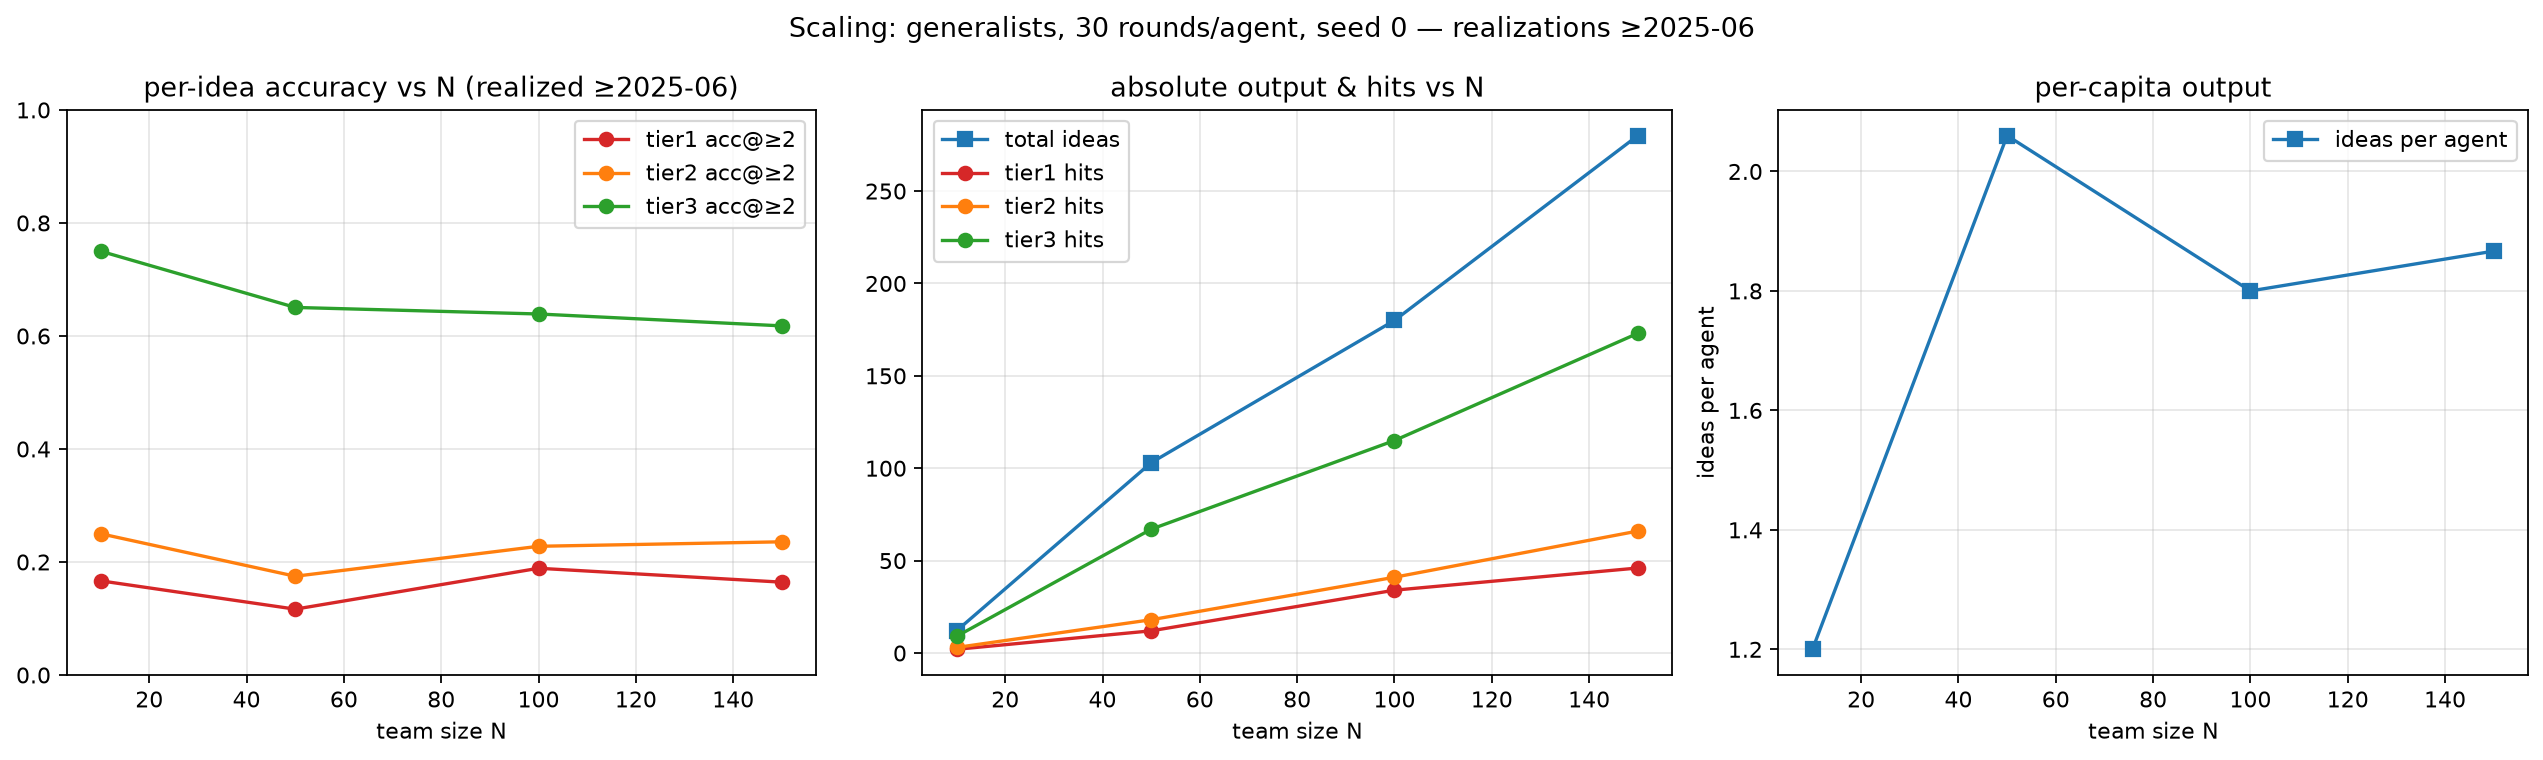
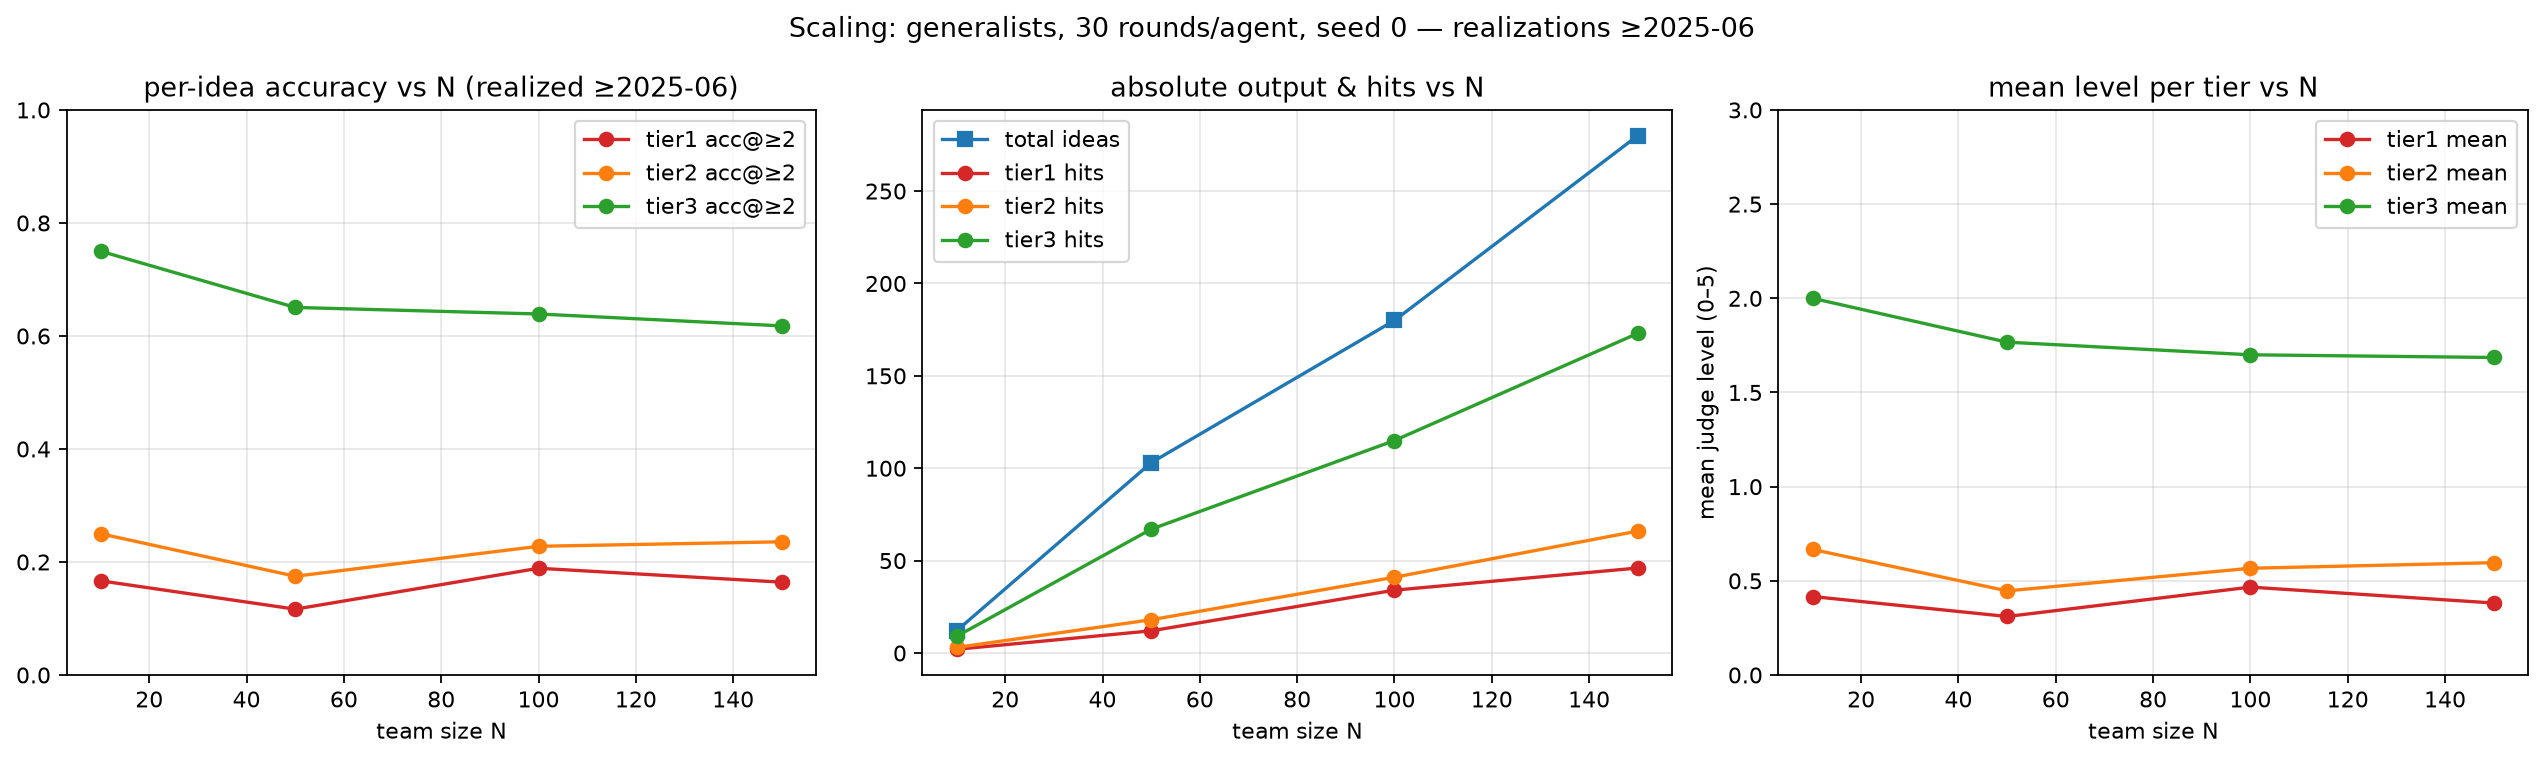
figure: scaling third panel = mean level per tier (replaces per-capita output)

diff --git a/paper/main.tex b/paper/main.tex
@@ -476,8 +476,9 @@ Per-idea accuracy is flat; absolute hits scale with output.}
 \end{center}
 \caption{Team-size scaling at fixed per-agent depth. Left: per-idea
 accuracy is flat in $N$. Middle: total output and absolute hits grow
-linearly. Right: per-capita output is constant; stigmergic coupling (citations of
-teammates' generated ideas) is zero throughout (Sec.~\ref{sec:scaling}).}
+linearly. Right: mean realization level per tier is likewise flat in $N$;
+stigmergic coupling (citations of teammates' generated ideas) is zero
+throughout (Sec.~\ref{sec:scaling}).}
 \label{fig:scaling}
 \end{figure}
 
